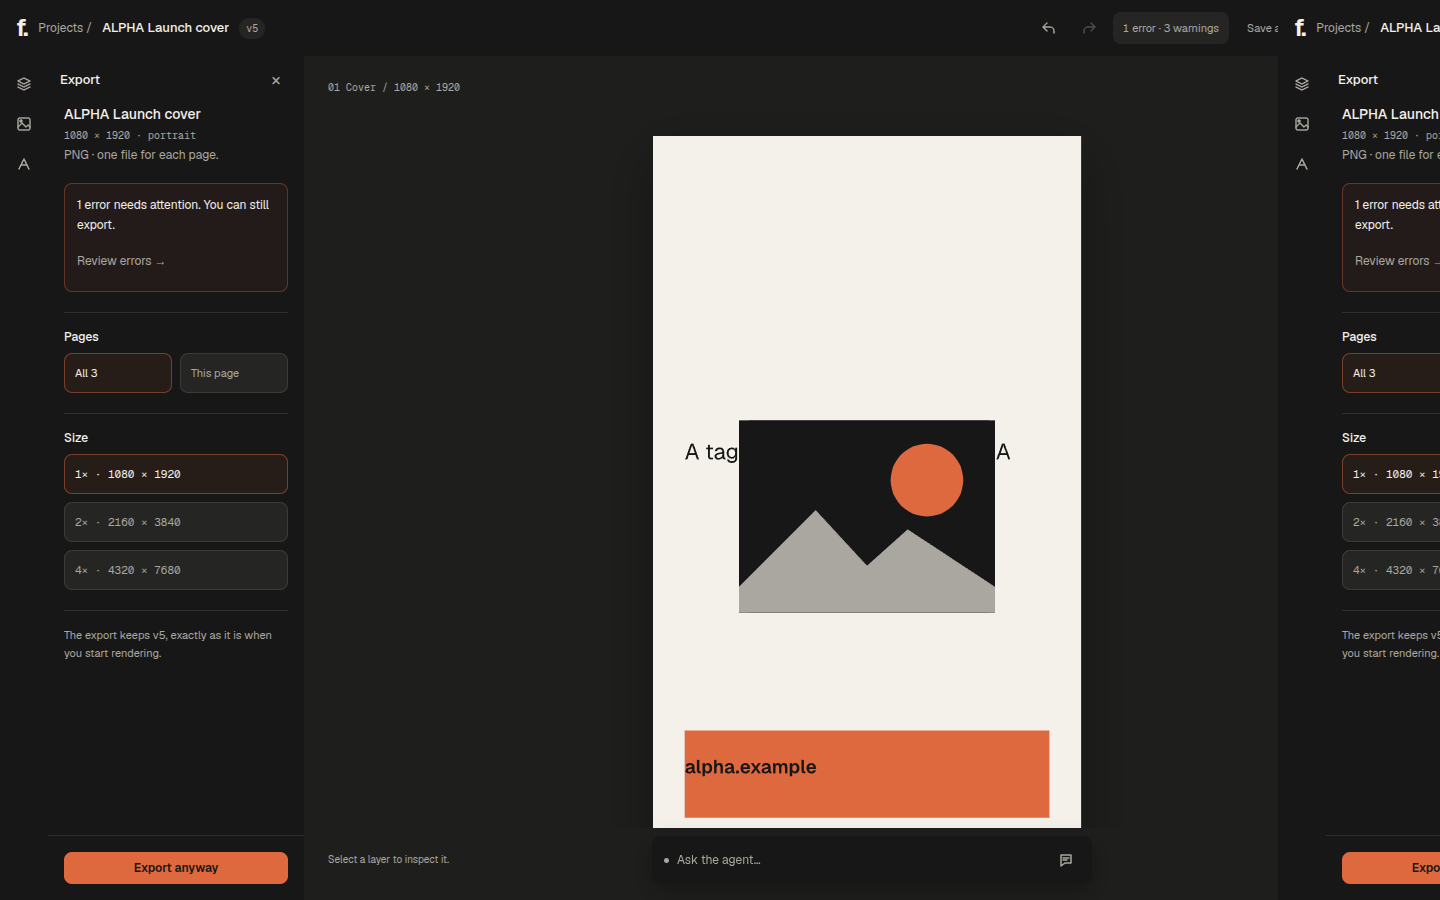
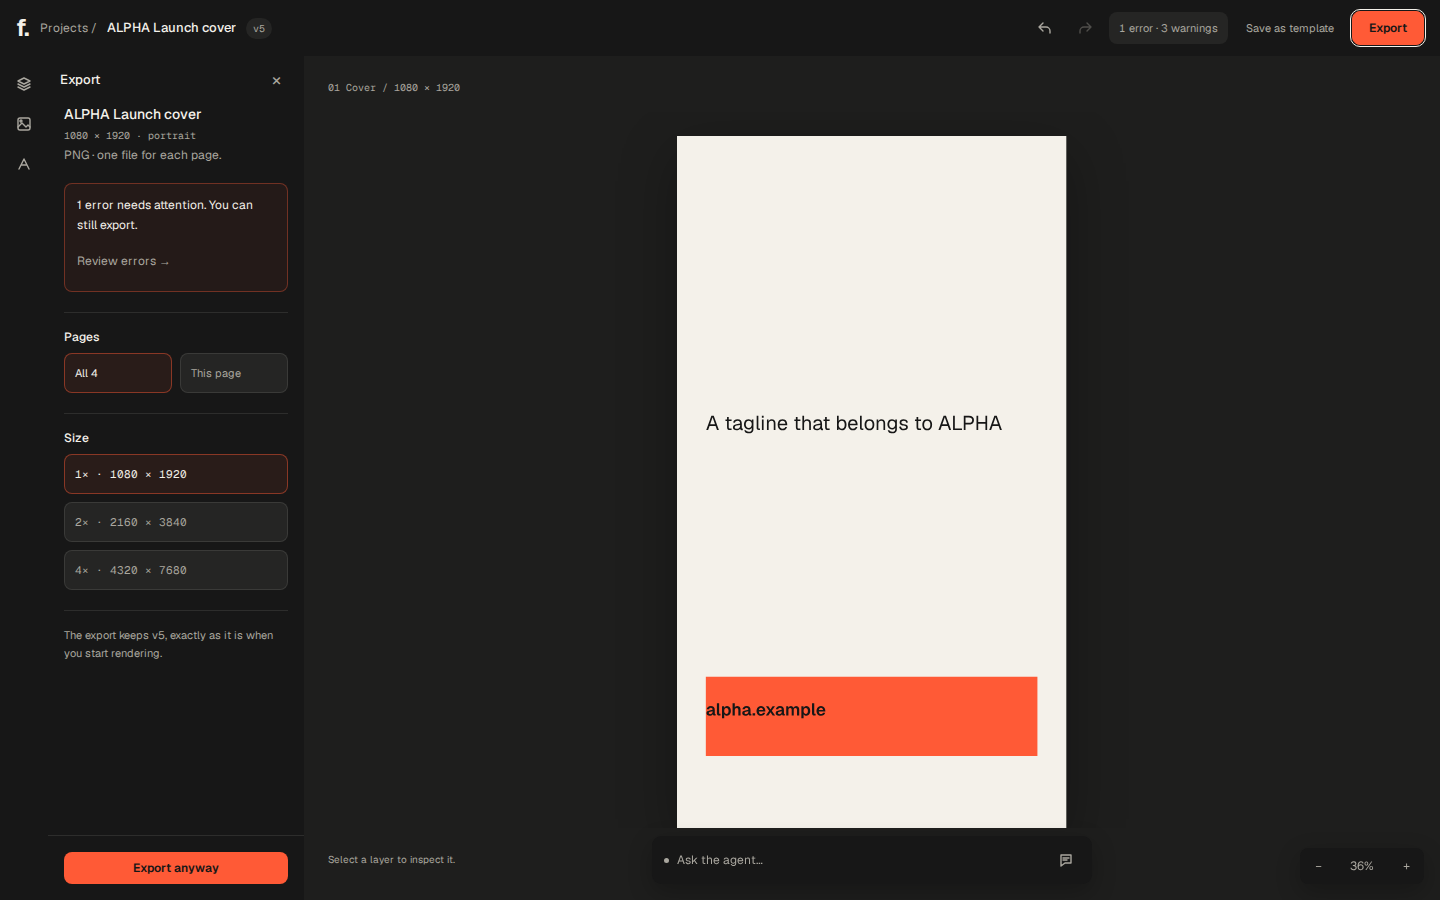
docs(ux): correct pages E desktop evidence

diff --git a/docs/pontis-integration-plan.md b/docs/pontis-integration-plan.md
@@ -824,7 +824,7 @@ Read this before the list below; the list is the plan, this is what happened to 
 | ↳ PV-1 gaps · Task G1 (S4, S10, S6 expiry) | **done — requested outcomes passed.** S4 passed on FakeProvider: ordered validator issues matched, the same design was repaired and rendered through Forma's authenticated REST route; Pontis `design.renderPreview` remains the separate S5 blocker. S10 passed: cross-account reads were indistinguishable from missing ids, and revoking membership during the same live session returned `authorization_denied` without a write. S6 expiry passed on FakeProvider and pinned Codex 0.158.0 (`gpt-6-luna`, low; one turn): expiry was terminal, a late approval caused no write, and the design stayed readable and unchanged. The late resolve still returned `delivered: true` without a Runtime refusal diagnostic; recorded as [Pontis upstream report item 11](pontis-upstream-report.md#11-a-runtime-refused-approval-resolve-still-returns-delivered-true-to-the-host). The full S6 composite remains partial; G1 closes its expiry subcase. Sanitized evidence: [PV-1 gap results](evidence/step12/pv1-gaps.json). Gates passed: `pnpm lint`, `pnpm typecheck`, web tests (254), sidecar tests (99), sidecar lint and typecheck. No Rust source changed, so the workspace Rust suite was not applicable. Rebased on `main` at `8ef6839`. | `6d17d43`, `1e8dca5`, `275f3bc` (branch `JonathanEKP/pontis-pv1-gaps`) |
 | ↳ PV-1 gaps · Task G2 (rest of S6: cancellation, invocation scope, explicit set) | **done — S6 passed under G-8.** All subcases have evidence mapped to destructive `design.applyOperations` removals; `design.delete` was not added and D3 remains undecided. FakeProvider proves pending cancellation reaches `approval.cancelled` and `capability.failed(approval_cancelled)`, preserves the readable design with zero Boundary F writes, and a late approve causes no mutation; the Runtime's missing terminal event and the late `delivered: true` response are recorded in [upstream items 2 and 11](pontis-upstream-report.md#2-no-terminal-event-after-sessioncancel). Invocation X's consent is refused for Y by the sidecar gateway, and the existing Forma route test separately refuses the mismatched Boundary F approval. The approval card names an explicit id and reports count 1; exactly that id is removed, while selector, wildcard and missing-id operations all return `validation_error`. G1 expiry evidence, Step 11 consent and Step 12 denial/replay evidence complete the composite. Zero real Codex turns were used for G2; tests used the prebuilt test-driver binary and did not build Pontis. Sanitized evidence: [PV-1 S6](evidence/step12/pv1-s6.json). Gates passed: `pnpm lint`, `pnpm typecheck`, web tests (254), sidecar tests (101), sidecar lint and typecheck, and the targeted Boundary F invocation-scope test. `cargo test --workspace` was not run because no Rust source changed. | `4aeef12`, `fc447d5`, `fdfc329`, `6b2cd75` |
 | UX batch 1 (rounds 1–3 decisions) | **done, merged into `main` (`ea6d8da`)** — spec, owner decisions U-1…U-4 and task split in [ux-batch-1.md](ux/ux-batch-1.md). S1, S1b, S2, W4, W1, W2, W3 merged in that order (Orca run `run_751ed57d74c0`, Codex `gpt-6-luna` xhigh). Browser re-test T on FakeProvider: 24 pass, 4 fail, 11 not testable ([ux-batch-1-retest.md](ux/ux-batch-1-retest.md)); its findings UX1-1…UX1-3 fixed by task F. Not yet seen in a browser with a real model: D-2's `ui_unavailable`, formatted agent text, UI action cards, the post-approval confirmation line | |
-| ↳ UX batch 1 · Pages · E (editor side panels) | **done — implemented and browser-proved on FakeProvider instance 7; instance stopped.** Built Brand, Images, Export, Checks and Save as template; `initialTool` is available for panel routing, and the panels fill a 390px phone viewport. Paired panel-state screenshots at desktop 1278×969 and phone 390×844 are in [Pages E evidence](ux/evidence/pages/). Rebased on `origin/main` at `64a3a8c`; `pnpm lint`, `pnpm typecheck`, web tests (351), sidecar lint/typecheck/tests (125) passed; no Rust source changed. | `5ac5dfb` (branch `JonathanEKP/pages-E`) |
+| ↳ UX batch 1 · Pages · E (editor side panels) | **done — implemented and browser-proved on FakeProvider instance 7; desktop evidence recaptured on instance 10 with Playwright; both stopped.** Built Brand, Images, Export, Checks and Save as template; `initialTool` is available for panel routing, and the panels fill a 390px phone viewport. The duplicate strip in the earlier desktop screenshots was a capture artifact: at 1440×900 the live DOM has one editor root and no horizontal overflow. Desktop screenshots were retaken at 1440×900; phone screenshots remain 390×844 in [Pages E evidence](ux/evidence/pages/). Rebased on `origin/main` at `64a3a8c`; `pnpm lint`, `pnpm typecheck`, web tests (351), sidecar lint/typecheck/tests (125) passed; no Rust source changed. | `5ac5dfb` (branch `JonathanEKP/pages-E`) |
 | ↳ UX batch 1 · MCP page · R (per-app instructions research) | **done** — current official setup steps and support matrix for nine hosts, with source links dated 2026-10-06; Claude Code, Codex CLI and OpenCode verified against a local Streamable HTTP Forma endpoint. Browser-hosted apps and non-installed hosts are marked docs only. Host-card grouping, adoption signals and incorrect `Agents.tsx` copy are recorded in [mcp-host-instructions.md](ux/mcp-host-instructions.md). | `47078e0` |
 | ↳ UX batch 1 · MCP page · P (per-app steps on the page) | **done — implemented and browser-proved on FakeProvider instance 56; instance stopped.** Eight accessible app tabs show concise OAuth-first steps, supported token alternatives, live URL snippets and vendor guides; desktop 1595×937 and phone 390×844 evidence is in [the MCP screenshots](ux/evidence/mcp/), with no horizontal page overflow. Rebased on `origin/main` at `58949a3`; `pnpm lint`, `pnpm typecheck`, web tests (333), sidecar lint/typecheck/tests (125), workspace Rust tests, Clippy and `scripts/check-bindings.sh` passed; no real AI host was run. | `c42d190`, `d807bd1`, `cb78f52`, `dc82be9` (branch `JonathanEKP/mcp-P`) |
 | ↳ UX batch 1 · MCP page · Q (Antigravity, Other app, groups, logos) | **implemented and browser-proved on FakeProvider instance 72; instance stopped.** Replaced Gemini CLI with Google's current Antigravity setup for desktop, IDE, and CLI; added the final Other app guide and grouped one-tablist picker with inline marks. Replaced the MCP screenshots with grouped row, Antigravity, Other app, and phone evidence at 1595×937 and 390×844 ([MCP screenshots](ux/evidence/mcp/)). Rebased on `origin/main` at `f34a3a8`; `pnpm lint`, `pnpm typecheck`, web tests (338), sidecar lint/typecheck/tests (125) passed; no Rust source changed and no real AI host was run. | `6b71cb5`, `d7d0470` (branch `JonathanEKP/mcp-Q`) |
